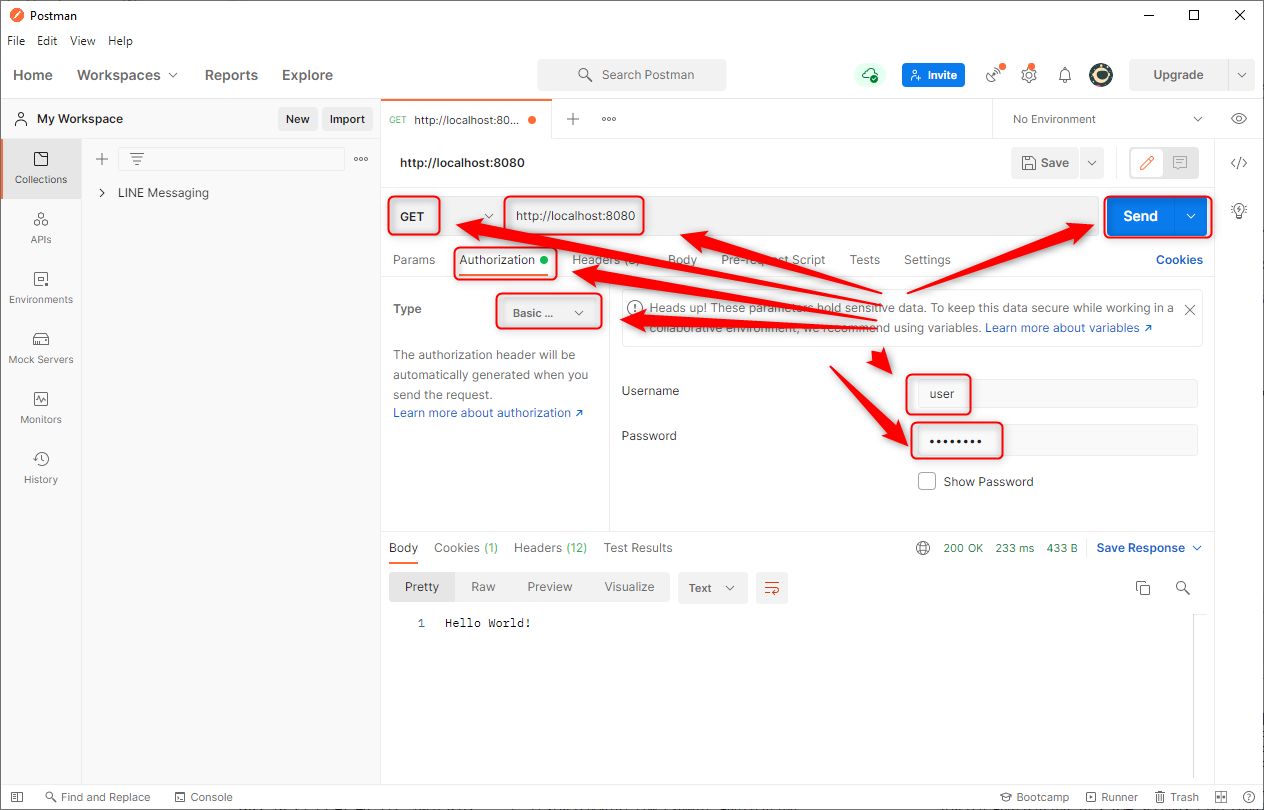
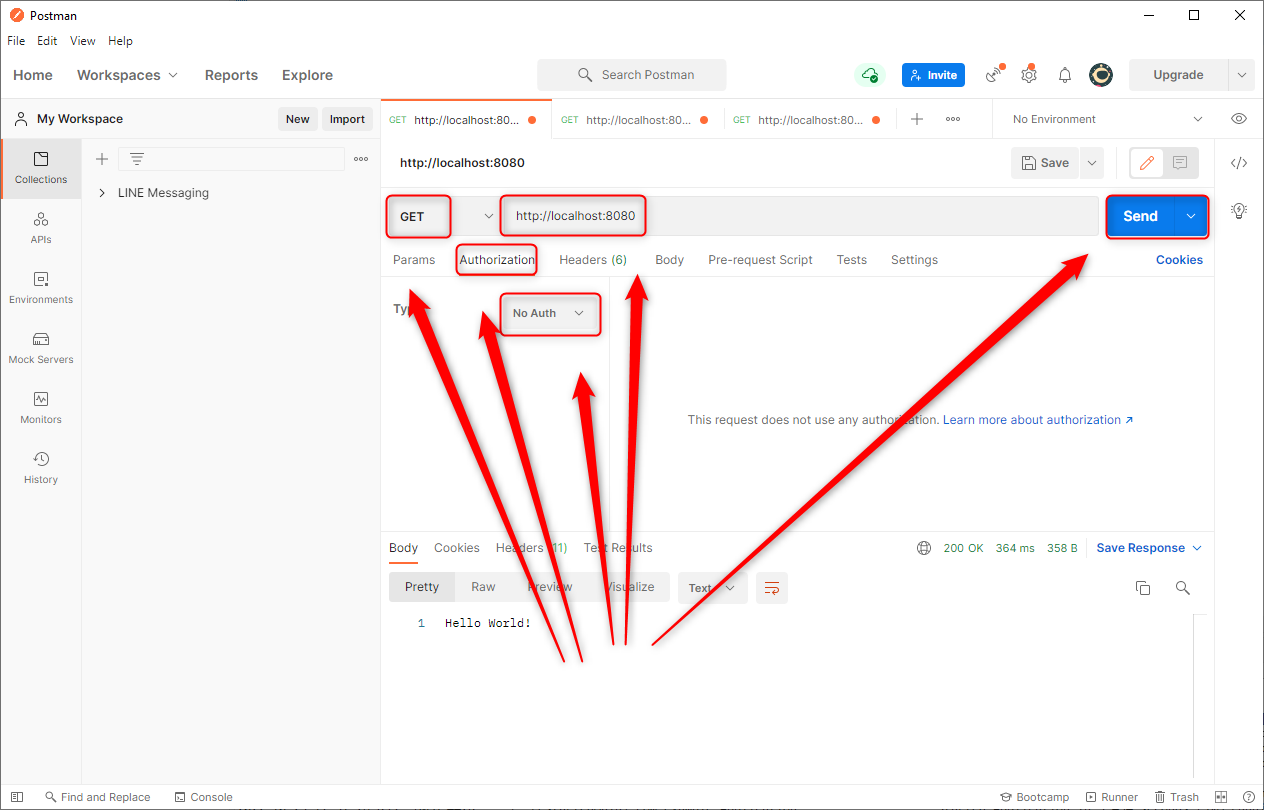
Update project rest-basic

diff --git a/spring-boot/security/authentication-authorization/no-sso/no-oauth2/single/rest-basic/README.md b/spring-boot/security/authentication-authorization/no-sso/no-oauth2/single/rest-basic/README.md
@@ -6,9 +6,15 @@ The goal of this project is to present how to implement **Basic authentication a
 
 ##### Flow
 The following flow takes place in this project:
-1. User uses any Client API (for instance Postman) for sending GET request to Server for secured content. Credentials type Basic authentication are sent together with this request
-1. Server checks if credentials are valid. If everything is ok secured content is sent back to Client API
-1. Client API displays secured content to the User 
+1. User uses any Client API (for instance Postman) for sending GET request to Server for not secured content. 
+1. Server sends back not secured content to Client API
+1. Client API displays not secured content to the User 
+1. User uses any Client API for sending GET request to Server for secured content for role USER. Credentials type Basic authentication are sent together with this request
+1. Server checks if credentials are valid. If everything is ok secured content for role USER is sent back to Client API
+1. Client API displays secured content for role USER to the User
+1. User uses any Client API for sending GET request to Server for secured content for role ADMIN. Credentials type Basic authentication are sent together with this request
+1. Server checks if credentials are valid. If everything is ok secured content for role ADMIN is sent back to Client API
+1. Client API displays secured content for role ADMIN to the User  
 
 
 ##### Launch
@@ -40,7 +46,13 @@ USAGE
 
 Usage steps:
 1. Start application with `mvn spring-boot:run`
-1. Send GET request with Postman (**Basic Authentication** with credentials **user / password**) to URL `http://localhost:8080`
+1. Send GET request with Postman to URL `http://localhost:8080`
+1. Send GET request with Postman (**Basic Authentication** with credentials **user / user123** or **admin / admin123**) to URL `http://localhost:8080/user`
+1. Send GET request with Postman (**Basic Authentication** with credentials **admin / admin123**) to URL `http://localhost:8080/admin`
 1. Clean up environment with `ctrl + C`
 
 ![My Image](image-1.png)
+
+![My Image](image-2.png)
+
+![My Image](image-3.png)
